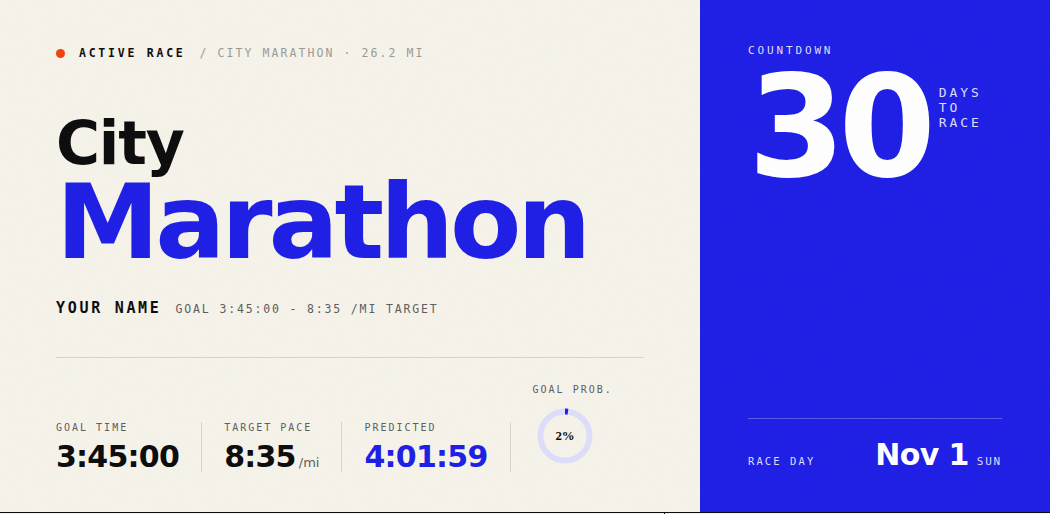
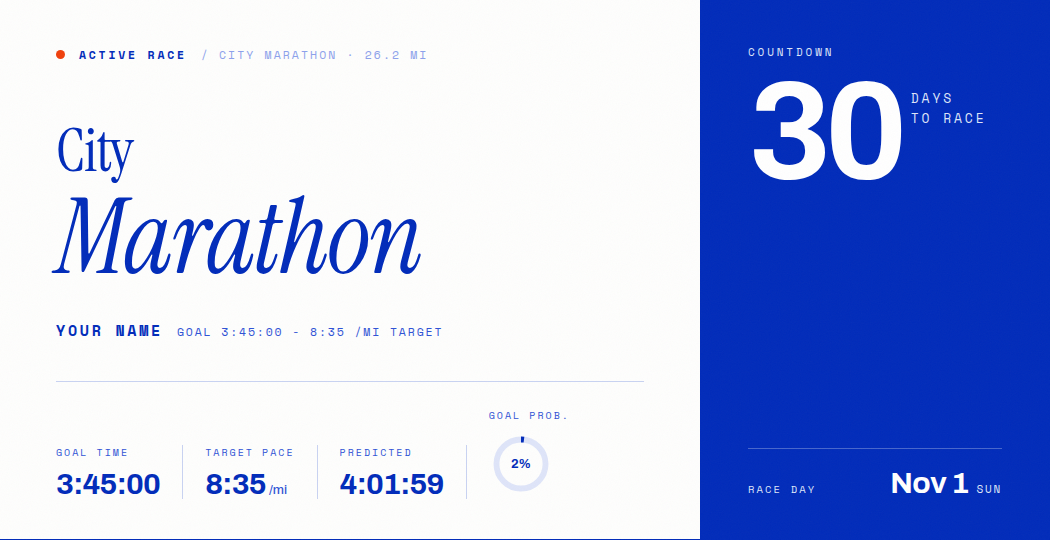
Dashboard theme: the same design system as the README images
config.example.json's theme block now carries the Prospect Studio tokens:
International Klein Blue (#002BBA) as the ink on gallery paper (#FAFAF8 page,
#FEFEFD poster, #F1F1EE ground), the IKB scale for the heatmap ramp and the
hairlines, the flame dot unchanged. A new optional theme.serif_font (Instrument
Serif in the example) sets the race title in the editorial register, 400 with
the second line italic, and joins the Google Fonts link; a config.json without
the key keeps the grotesk title and the earlier defaults, so existing setups
render as before. docs/img/01-full.png regenerated from the demo athlete with
the brand fonts loaded.

Claude-Session: https://claude.ai/code/session_01SxDJkjqwotd7Mvs2q5ARQV

diff --git a/dashboard.py b/dashboard.py
@@ -86,10 +86,11 @@ def _signed(n: int, unit: str = "") -> str:
 def _theme_vars(t: dict) -> str:
     """Build the :root CSS block from config.theme().
 
-    Values default from config.example.json's Yves Klein Blue design-system
-    tokens (IKB ultramarine / warm paper / ink / flame accent). The three
-    ink/hairline shades are optional keys with token defaults, so a
-    pre-existing config.json without them keeps rendering unchanged.
+    Values default from config.example.json's Prospect Studio design-system
+    tokens (International Klein Blue as the ink, gallery paper, flame accent
+    at ~2%). The three ink/hairline shades are optional keys whose defaults
+    match the earlier palette, so a pre-existing config.json without them
+    keeps rendering unchanged.
     """
     heat = t["heatmap"]
     ink2 = t.get("ink_soft", "#5C5C5E")    # ds --ink-500: secondary text
@@ -115,7 +116,22 @@ def _theme_vars(t: dict) -> str:
 def _build_css(t: dict) -> str:
     disp = t["display_font"]
     mono = t["mono_font"]
+    serif = t.get("serif_font") or disp
     root = _theme_vars(t)
+    if serif != disp:
+        # The editorial serif register: sentence case, 400 + italic, tight leading.
+        title_css = (
+            f".title{{font-family:'{serif}',Georgia,serif; font-size:104px; line-height:.98; "
+            "font-weight:400; letter-spacing:-.015em; margin:6px 0 0}\n"
+            ".title .t1{display:inline-block; font-size:60px; line-height:1; letter-spacing:-.015em}\n"
+            ".title .b2{color:var(--klein); font-style:italic}"
+        )
+    else:
+        title_css = (
+            ".title{font-size:104px; line-height:.9; font-weight:700; letter-spacing:-.04em; margin:6px 0 0}\n"
+            ".title .t1{display:inline-block; font-size:60px; line-height:1; letter-spacing:-.02em}\n"
+            ".title .b2{color:var(--klein)}"
+        )
     return f"""<style>
 *{{margin:0;padding:0;box-sizing:border-box}}
 {root}
@@ -154,9 +170,7 @@ body::before{{
   font-size:11.5px; letter-spacing:.24em; text-transform:uppercase; font-weight:700; margin-bottom:22px}}
 .mast-eye .dot{{width:9px;height:9px;background:var(--verm);border-radius:50%}}
 .mast-eye .sub{{color:var(--ink-3); font-weight:400; letter-spacing:.18em}}
-.title{{font-size:104px; line-height:.9; font-weight:700; letter-spacing:-.04em; margin:6px 0 0}}
-.title .t1{{display:inline-block; font-size:60px; line-height:1; letter-spacing:-.02em}}
-.title .b2{{color:var(--klein)}}
+{title_css}
 .athlete{{display:flex; align-items:baseline; gap:14px; margin-top:30px;
   font-family:'{mono}',monospace; text-transform:uppercase}}
 .athlete .nm{{font-size:15px; font-weight:700; letter-spacing:.18em}}
@@ -1025,11 +1039,13 @@ def _build_html(data: dict) -> str:
         _footer(race["race_name"], today),
     ])
 
+    serif = t.get("serif_font") or disp
+    serif_part = f'&family={serif.replace(" ", "+")}:ital@0;1' if serif != disp else ""
     fonts_link = (
         '<link rel="preconnect" href="https://fonts.googleapis.com">\n'
         '<link rel="preconnect" href="https://fonts.gstatic.com" crossorigin>\n'
         f'<link href="https://fonts.googleapis.com/css2?family={disp.replace(" ", "+")}:wght@400;500;700'
-        f'&family={mono.replace(" ", "+")}:wght@400;700&display=swap" rel="stylesheet">'
+        f'&family={mono.replace(" ", "+")}:wght@400;700{serif_part}&display=swap" rel="stylesheet">'
     )
 
     title = f"strava-run-coach &mdash; {race['race_name']} Training Report"

diff --git a/tests/test_dashboard_theme.py b/tests/test_dashboard_theme.py
@@ -11,9 +11,11 @@ import unittest
 import config
 from dashboard import _build_css, _theme_vars
 
-# Palette values retired by the Yves Klein Blue design-system reskin.
+# Palette values retired by the two design-system reskins (the pre-Klein
+# palette, then the Yves Klein Blue one the Prospect Studio tokens replaced).
 RETIRED_HEXES = ("#002FA7", "#0047FF", "#E5341F", "#F7F6F1", "#FFFEFB",
-                 "#F1F0EA", "#B9C6EE", "#0A0A0A")
+                 "#F1F0EA", "#B9C6EE", "#0A0A0A",
+                 "#1D1DE6", "#4A4AF0", "#EFEBDE", "#0B0B8A", "#DEDEFB")
 
 
 class TestThemeVars(unittest.TestCase):
@@ -26,9 +28,11 @@ class TestThemeVars(unittest.TestCase):
 
     def test_example_theme_is_design_system(self):
         css = _theme_vars(config.theme())
-        self.assertIn("#1D1DE6", css)   # --ikb-500
-        self.assertIn("#F0400C", css)   # --flame-500
-        self.assertIn("#0B0B8A", css)   # heatmap top = --ikb-900
+        self.assertIn("--klein:#002BBA", css)   # --ikb-500, the primary
+        self.assertIn("--ink:#002BBA", css)     # blue is the ink
+        self.assertIn("--hair:#C9D3F2", css)    # --ikb-200 hairline
+        self.assertIn("#F0400C", css)           # --flame-500
+        self.assertIn("--c5:#001560", css)      # heatmap top = --ikb-900
 
     def test_old_configs_without_new_keys_still_render(self):
         legacy = dict(config.theme())
@@ -53,6 +57,20 @@ class TestBuildCss(unittest.TestCase):
         css = _build_css(config.theme())
         self.assertIn(config.theme()["display_font"], css)
         self.assertIn(config.theme()["mono_font"], css)
+        self.assertIn(config.theme()["serif_font"], css)
+
+    def test_serif_title_is_the_editorial_register(self):
+        css = _build_css(config.theme())
+        self.assertIn(".title{font-family:'Instrument Serif'", css)
+        self.assertIn("font-weight:400", css.split(".title{", 1)[1].split("}", 1)[0])
+        self.assertIn(".title .b2{color:var(--klein); font-style:italic}", css)
+
+    def test_theme_without_serif_font_keeps_the_grotesk_title(self):
+        legacy = dict(config.theme())
+        legacy.pop("serif_font", None)
+        css = _build_css(legacy)
+        self.assertIn(".title{font-size:104px; line-height:.9; font-weight:700", css)
+        self.assertNotIn("Instrument Serif", css)
 
 
 if __name__ == "__main__":

diff --git a/CHANGELOG.md b/CHANGELOG.md
@@ -80,6 +80,10 @@ connected and the coach sets itself up, asks one question, and coaches.
   collapsed at the bottom); the terminal and Strava API material moved to
   `docs/TERMINAL.md`. The plugin manifest now carries the Strava MCP server, so
   a marketplace install brings the connector along.
+- The dashboard theme follows the same design system as the README images:
+  International Klein Blue as the ink on gallery paper, the blue scale for the
+  heatmap, and an optional `theme.serif_font` (Instrument Serif in the example
+  config) for the race title. A `config.json` without the key renders as before.
 
 ### Removed
 - First-half-vs-second-half "cardiac drift" in the review (it measured how a
